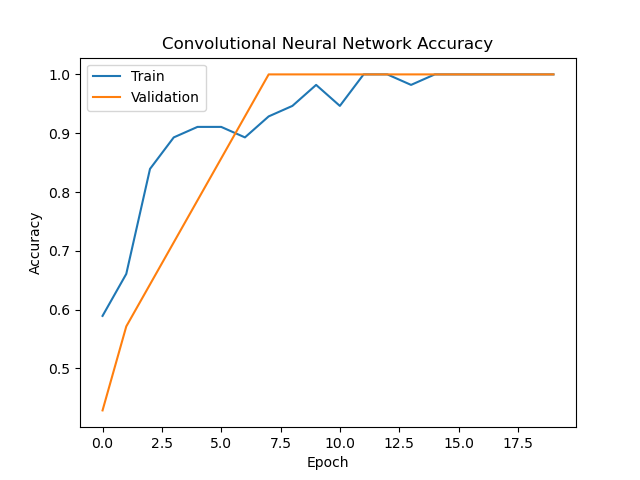
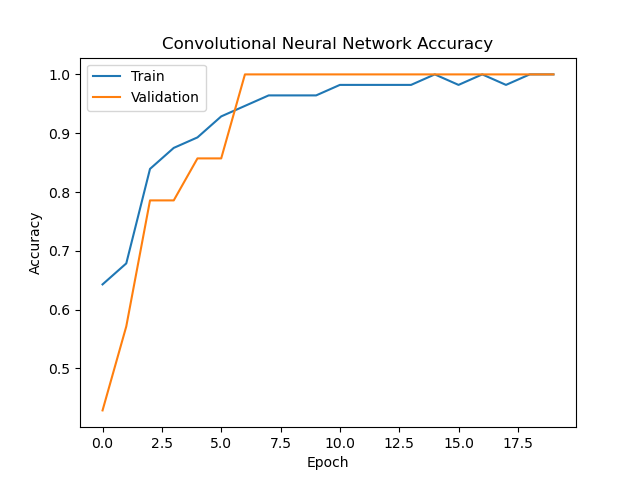
Model training for development

Changed region(s): [[0.1562, 0.125, 0.6562, 0.6875], [0.6875, 0.1562, 0.8125, 0.1875]]

diff --git a/model_training.py b/model_training.py
@@ -1,98 +1,164 @@
 from pathlib import Path
 import pandas as pd
-
 import tensorflow as tf
+import matplotlib.pyplot as plt
 from tensorflow.keras.models import Sequential
-from tensorflow.keras.layers import Flatten, Dense, Dropout, BatchNormalization
+from tensorflow.keras.layers import (Conv1D, MaxPooling1D, Flatten,
+                                     Dense, Dropout, BatchNormalization)
 from sklearn.model_selection import train_test_split
 from tensorflow.keras.regularizers import l2
 from tensorflow.keras.callbacks import EarlyStopping
 
 def create_training_data(source_1_fp, source_2_fp):
+    print(f"Loading data from {source_1_fp} and {source_2_fp}...")
     source_1_df = pd.read_excel(source_1_fp, header=None)
     source_2_df = pd.read_excel(source_2_fp, header=None)
 
     column_names = [f'DP-{i}' for i in range(1, 3401)]
 
+    print("Preprocessing source 1 data...")
     source_1_df = source_1_df.drop(source_1_df.columns[:6], axis=1)
     source_1_df.columns = column_names
-    source_1_df['source'] = 0 # 0 for source 1
+    source_1_df['source'] = 0  # 0 for source 1
 
+    print("Preprocessing source 2 data...")
     source_2_df = source_2_df.drop(source_2_df.columns[:6], axis=1)
     source_2_df.columns = column_names
-    source_2_df['source'] = 1 # 1 for source 2
+    source_2_df['source'] = 1  # 1 for source 2
 
     dataframe = pd.concat([source_1_df, source_2_df], axis=0)
     dataframe = dataframe.reset_index(drop=True)
-    # dataframe.to_excel('excel_files\dataframe.xlsx', index=False)
+    print("Data concatenated and shuffled.")
 
     output_param = dataframe['source'].to_numpy()
     input_param = dataframe.drop(columns=['source']).to_numpy()
 
+    print("Splitting data into training and testing sets...")
     x_train, x_test, y_train, y_test = train_test_split(input_param, output_param, test_size=0.3, random_state=42,
                                                         stratify=output_param)
     x_train = x_train.reshape(x_train.shape[0], 3400, 1)
     x_test = x_test.reshape(x_test.shape[0], 3400, 1)
 
+    print(f"Data split complete: {x_train.shape[0]} training samples and {x_test.shape[0]} test samples.")
     return x_train, y_train, x_test, y_test
 
-def train_and_save_nn_model(x_train, y_train, model_fp):
-    # Build the DNN model
+def plot_model_metrices(model_name, model_history):
+    output_dir = Path('model_metrices_plots')
+    if not output_dir.exists():
+        output_dir.mkdir()
+
+    print(f"Plotting metrics for {model_name}...")
+    # Plot training & validation accuracy values
+    plt.plot(model_history['accuracy'])
+    plt.plot(model_history['val_accuracy'])
+    plt.title(f'{model_name} Accuracy')
+    plt.xlabel('Epoch')
+    plt.ylabel('Accuracy')
+    plt.legend(['Train', 'Validation'], loc='upper left')
+    plt.savefig(f'{output_dir}/{model_name}_accuracy.png')
+
+    # Plot training & validation loss values
+    plt.plot(model_history['loss'])
+    plt.plot(model_history['val_loss'])
+    plt.title(f'{model_name} Loss')
+    plt.xlabel('Epoch')
+    plt.ylabel('Loss')
+    plt.legend(['Train', 'Validation'], loc='upper left')
+    plt.savefig(f'{output_dir}/{model_name}_loss.png')
+
+    print(f"Metrics plotted and saved for {model_name}.")
+
+def train_and_save_cnn_model(x_train, y_train, model_fp):
+    print("Building CNN model...")
+    cnn_model = Sequential()
+
+    cnn_model.add(Conv1D(filters=64, kernel_size=5, activation='relu', input_shape=(3400, 1)))
+    cnn_model.add(MaxPooling1D(pool_size=2))
+
+    cnn_model.add(Conv1D(filters=128, kernel_size=5, activation='relu'))
+    cnn_model.add(MaxPooling1D(pool_size=2))
+
+    cnn_model.add(Conv1D(filters=256, kernel_size=5, activation='relu'))
+    cnn_model.add(MaxPooling1D(pool_size=2))
+
+    cnn_model.add(Flatten())
+
+    cnn_model.add(Dense(128, activation='relu'))
+    cnn_model.add(Dropout(0.5))
+    cnn_model.add(Dense(64, activation='relu'))
+
+    # Output layer for binary classification
+    cnn_model.add(Dense(1, activation='sigmoid'))
+
+    print("Compiling CNN model...")
+    cnn_model.compile(optimizer=tf.keras.optimizers.Adam(learning_rate=0.0001),
+                      loss='binary_crossentropy', metrics=['accuracy'])
+
+    print("Training CNN model...")
+    cnn_history = cnn_model.fit(x_train, y_train, epochs=20, batch_size=16, validation_split=0.2)
+    cnn_model.save(model_fp)
+    print(f"CNN model saved to {model_fp}.")
+    
+    plot_model_metrices("Convolutional Neural Network", cnn_history.history)
+    return cnn_model
+
+def train_and_save_nn_model(x_train, y_train, model_fp, model_name="Deep Neural Network"):
+    print(f"Building {model_name} model...")
     dnn_model = Sequential()
 
-    # Flatten the input signal
     dnn_model.add(Flatten(input_shape=(3400, 1)))
 
-    # First fully connected layer
     dnn_model.add(Dense(512, activation='relu', kernel_regularizer=l2(0.001)))
     dnn_model.add(BatchNormalization())
     dnn_model.add(Dropout(0.4))
 
-    # Second fully connected layer
     dnn_model.add(Dense(256, activation='relu', kernel_regularizer=l2(0.001)))
     dnn_model.add(BatchNormalization())
     dnn_model.add(Dropout(0.4))
 
-    # Third fully connected layer
     dnn_model.add(Dense(128, activation='relu', kernel_regularizer=l2(0.001)))
     dnn_model.add(BatchNormalization())
     dnn_model.add(Dropout(0.3))
 
-    # Fourth fully connected layer
     dnn_model.add(Dense(64, activation='relu', kernel_regularizer=l2(0.001)))
     dnn_model.add(BatchNormalization())
     dnn_model.add(Dropout(0.3))
 
-    # Output layer for binary classification
     dnn_model.add(Dense(1, activation='sigmoid'))
 
-    # Compile the model
+    print(f"Compiling {model_name} model...")
     dnn_model.compile(optimizer=tf.keras.optimizers.Adam(learning_rate=0.0001),
-                    loss='binary_crossentropy', metrics=['accuracy'])
+                      loss='binary_crossentropy', metrics=['accuracy'])
 
-    # Implement early stopping
     early_stopping = EarlyStopping(monitor='val_loss', patience=5, restore_best_weights=True)
 
-    # Train the model
-    history = dnn_model.fit(x_train, y_train, validation_split=0.2, epochs=300, batch_size=32, callbacks=[early_stopping])
+    print(f"Training {model_name} model...")
+    dnn_history = dnn_model.fit(x_train, y_train, validation_split=0.2, epochs=150, batch_size=32, callbacks=[early_stopping])
     dnn_model.save(model_fp)
+    print(f"{model_name} model saved to {model_fp}.")
+
+    plot_model_metrices(model_name, dnn_history.history)
     return dnn_model
 
-def train_and_save_cnn_model():
-    pass
-
-def train_and_save_lstm_model():
-    pass
+def train_and_save_lstm_model(x_train, y_train, model_lstm_fp):
+    print("Training and saving LSTM model...")
+    lstm_model = train_and_save_nn_model(x_train, y_train, model_lstm_fp, model_name="Long-Short Term Memory")
+    return lstm_model
 
 def main():
-    source_1_fp = Path("excel_files\source_1.xlsx")
-    source_2_fp = Path("excel_files\source_2.xlsx")
-    model_fp = 'nn_models\dnn_model.h5'
+    source_1_fp = Path("excel_files/source_1.xlsx")
+    source_2_fp = Path("excel_files/source_2.xlsx")
+    model_cnn_fp = 'classification_models/source_classification_using_cnn.h5'
+    model_dnn_fp = 'classification_models/source_classification_using_dnn.h5'
+    model_lstm_fp = 'classification_models/source_classification_using_lstm.h5'
 
+    print("Starting training pipeline...")
     x_train, y_train, x_test, y_test = create_training_data(source_1_fp, source_2_fp)
-    dnn_model = train_and_save_nn_model(x_train, y_train, model_fp)
-    train_and_save_cnn_model()
+    cnn_model = train_and_save_cnn_model(x_train, y_train, model_cnn_fp)
+    dnn_model = train_and_save_nn_model(x_train, y_train, model_dnn_fp)
+    lstm_model = train_and_save_lstm_model(x_train, y_train, model_lstm_fp)
 
+    print("Training complete.")
 
 if __name__ == "__main__":
     main()

diff --git a/app.py b/app.py
@@ -17,7 +17,7 @@ def click_submit():
         dict_models_paths = {
         'Neural Network (NN)': r'classification_models\source_classification_using_dnn.h5',
         'Convolutional neural network (CNN)': r'classification_models\source_classification_using_cnn.h5',
-        'Long short-term memory (LSTM)': r'classification_models\source_classification_using_cnn.h5' # TODO: LSTM
+        'Long short-term memory (LSTM)': r'classification_models\source_classification_using_lstm.h5' # TODO: LSTM
         }
 
         model_metrices = {
